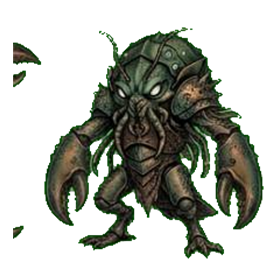
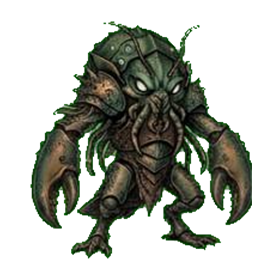
Fix Abyss Claw Hunter sprite crops

diff --git a/test_v2_auto_battle.js b/test_v2_auto_battle.js
@@ -127,7 +127,7 @@ for (const slug of ["death-knight", "skeleton-spear", "ghoul", "ancient-treant",
   }
 }
 
-assert(worker.includes('necromancer-expedition-v206'), "Service worker cache version was not advanced.");
+assert(worker.includes('necromancer-expedition-v207'), "Service worker cache version was not advanced.");
 assert(worker.includes("v2-auto-battle-practice.html"), "Auto battle page is not cached.");
 assert(worker.includes("v2-auto-battle-practice.css?v=45"), "Turn dice, lineup picker and illustrated unit info styling is not cached.");
 assert(worker.includes("v2-auto-battle-practice.js?v=54") && worker.includes("v2-legions.js?v=3") && worker.includes("v2-battle-brands.js?v=3"), "Turn-based status battle logic is not cached.");

diff --git a/service-worker.js b/service-worker.js
@@ -1,4 +1,4 @@
-const CACHE_NAME = "necromancer-expedition-v206";
+const CACHE_NAME = "necromancer-expedition-v207";
 const APP_SHELL = [
   "./",
   "./index.html",
